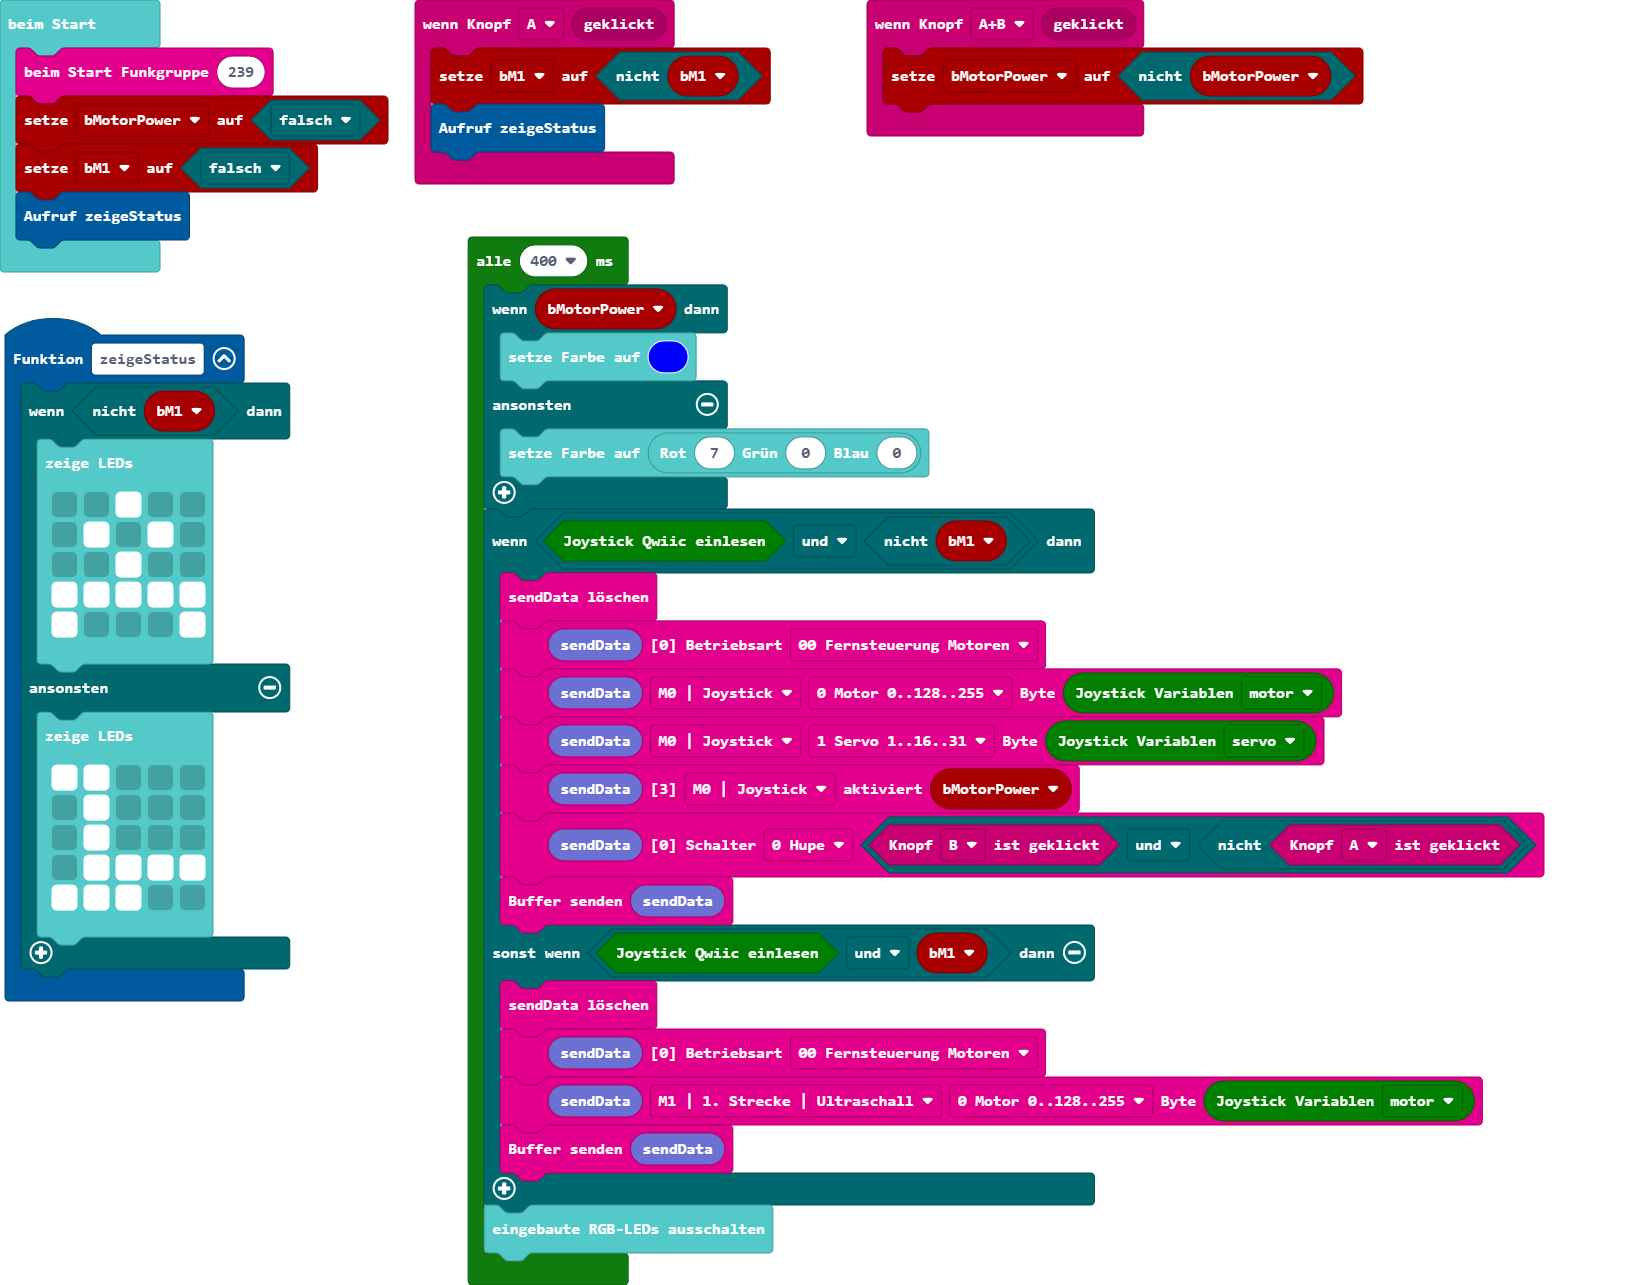
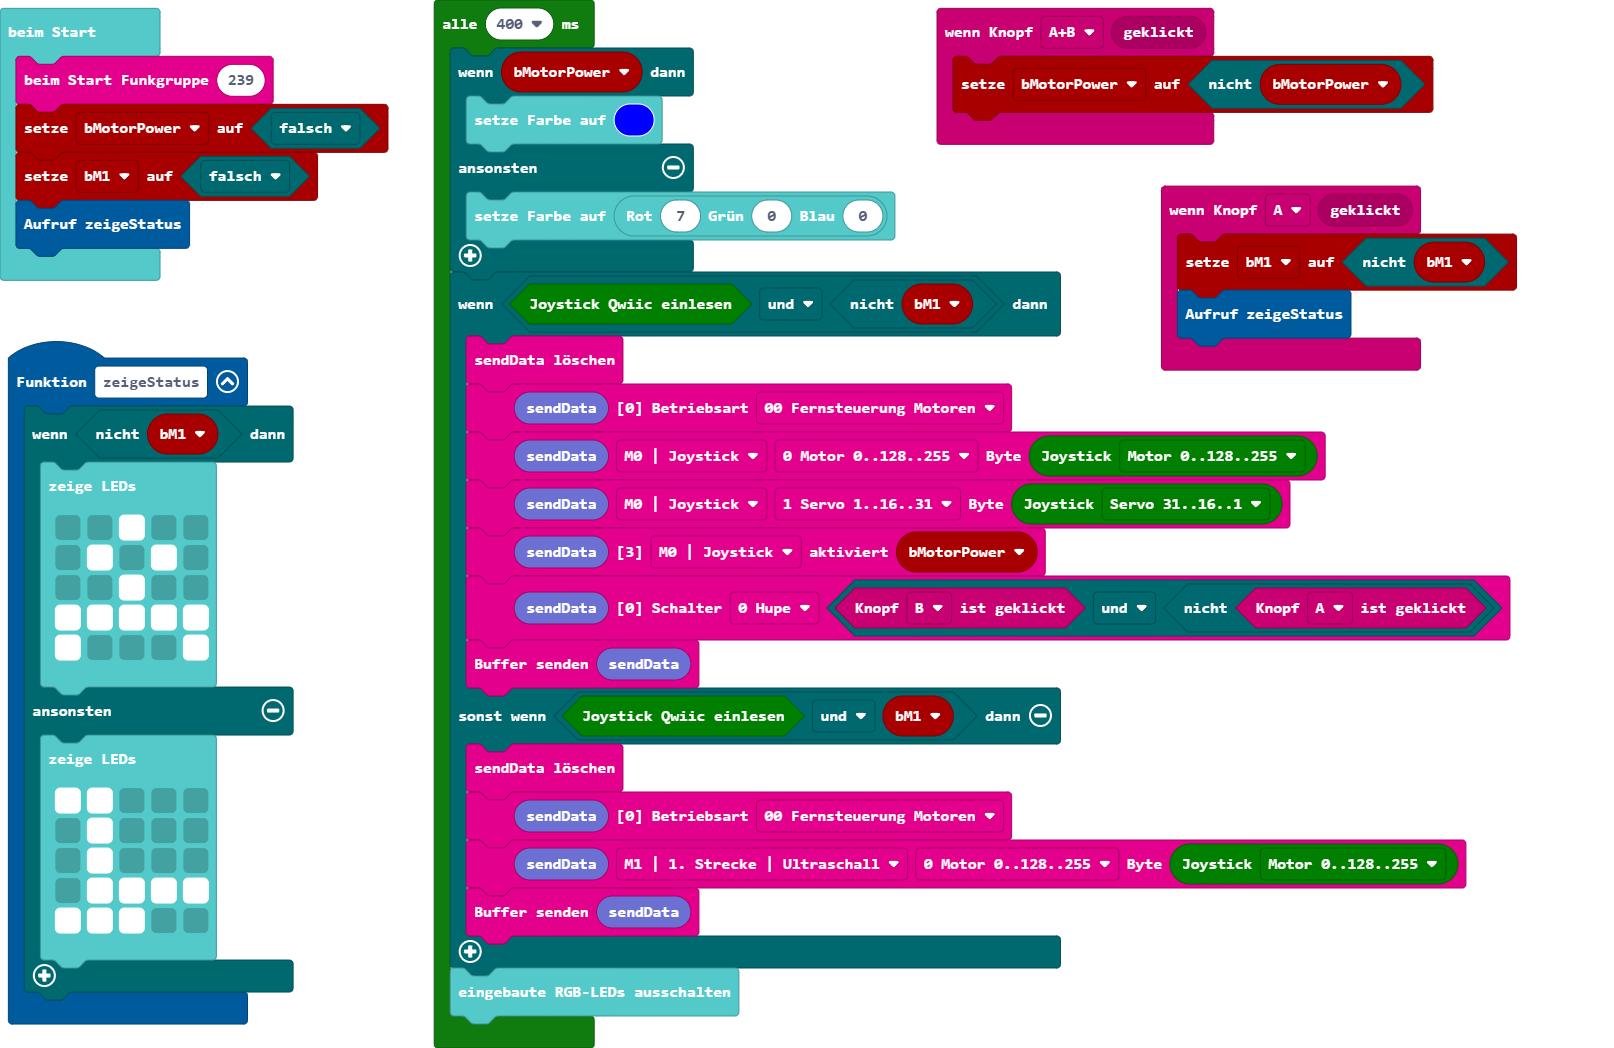
Aktualisiere main.blocks, main.ts, joystick.ts

diff --git a/joystick.ts b/joystick.ts
@@ -6,14 +6,28 @@ namespace radiosender
 */ {
     const i2cqwiicJoystick_x20 = 0x20
 
-    export const n_Simulator: boolean = ("€".charCodeAt(0) == 8364) // true, wenn der Code im Simulator läuft
+    //export const n_Simulator: boolean = ("€".charCodeAt(0) == 8364) // true, wenn der Code im Simulator läuft
     //let n_Buffer19 = Buffer.create(19) // wird gesendet mit radio.sendBuffer
     export let n_x: number, n_y: number, n_xMotor: number, n_yServo: number
-    let n_xmin = 128, n_xmax = 128, n_ymin = 128, n_ymax = 128
-
+    //let n_xmin = 128, n_xmax = 128, n_ymin = 128, n_ymax = 128
 
 
     // ========== group="Joystick"
+
+
+    export enum eJoystickValue {
+        //% block="x 0..128..255"
+        x,
+        //% block="y 0..128..255"
+        y,
+        //% block="Motor 0..128..255"
+        motor,
+        //% block="Servo 135°..90°..45°"
+        servo,
+        //% block="Servo 31..16..1"
+        servo16
+    }
+
 
     //% group="Joystick"
     //% block="Joystick Qwiic einlesen" weight=9
@@ -39,21 +53,21 @@ namespace radiosender
         }
     }
 
-    export enum eJoystickValue { x, y, motor, servo }
 
     //% group="Joystick"
-    //% block="Joystick Variablen %pJoystickValue" weight=8
+    //% block="Joystick %pJoystickValue" weight=8
     export function joystickValues(pJoystickValue: eJoystickValue) {
         switch (pJoystickValue) {
             case eJoystickValue.x: return n_x
             case eJoystickValue.y: return n_y
             case eJoystickValue.motor: return n_xMotor
-            case eJoystickValue.servo: return n_yServo
+            case eJoystickValue.servo: return n_yServo // 135°..90°..45°
+            case eJoystickValue.servo16: return Math.round(n_yServo / 3 - 14) // 135°=31 90°=16 45°=1
             default: return 0
         }
     }
 
-    export enum eXY { x, y }
+    //export enum eXY { x, y }
 
     //% group="Joystick"
     //% block="minmaxZeile %pXY" weight=7

diff --git a/main.ts b/main.ts
@@ -40,7 +40,7 @@ loops.everyInterval(400, function () {
         radio.fill_sendBuffer19()
         radio.setBetriebsart(radio.radio_sendBuffer19(), radio.e0Betriebsart.p0)
         radio.setByte(radio.radio_sendBuffer19(), radio.eBufferPointer.p0, radio.eBufferOffset.b0_Motor, radiosender.joystickValues(radiosender.eJoystickValue.motor))
-        radio.setByte(radio.radio_sendBuffer19(), radio.eBufferPointer.p0, radio.eBufferOffset.b1_Servo, radiosender.joystickValues(radiosender.eJoystickValue.servo))
+        radio.setByte(radio.radio_sendBuffer19(), radio.eBufferPointer.p0, radio.eBufferOffset.b1_Servo, radiosender.joystickValues(radiosender.eJoystickValue.servo16))
         radio.setaktiviert(radio.radio_sendBuffer19(), radio.e3aktiviert.m0, bMotorPower)
         radio.setSchalter(radio.radio_sendBuffer19(), radio.e0Schalter.b0, input.buttonIsPressed(Button.B) && !(input.buttonIsPressed(Button.A)))
         radio.sendData(radio.radio_sendBuffer19())
